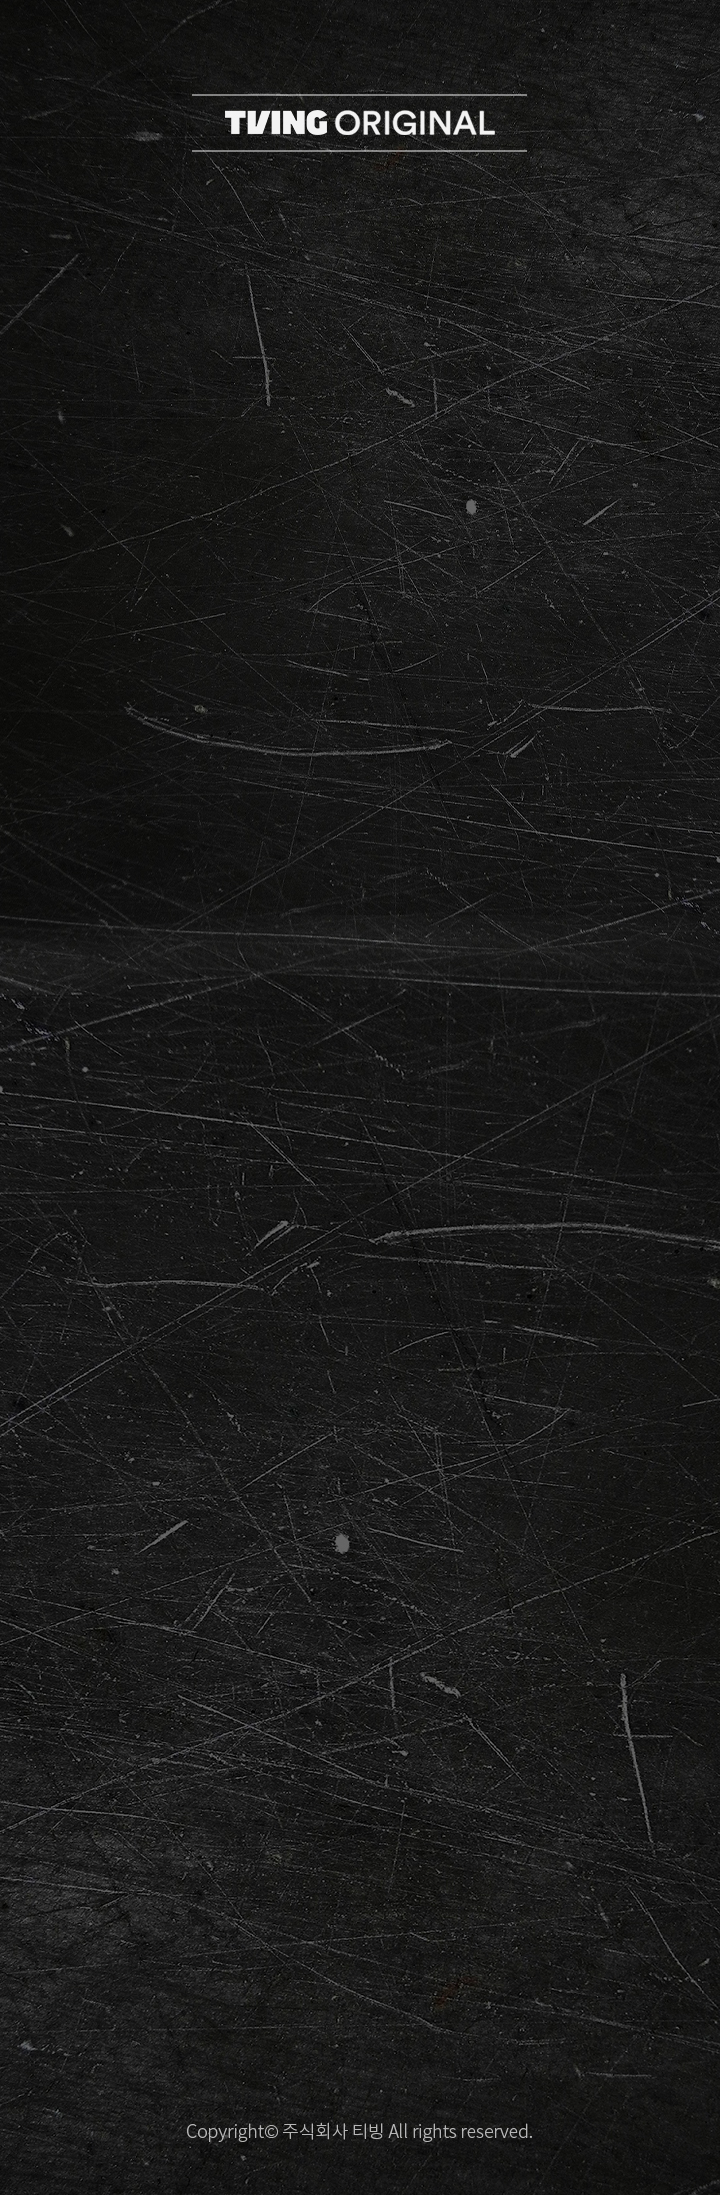
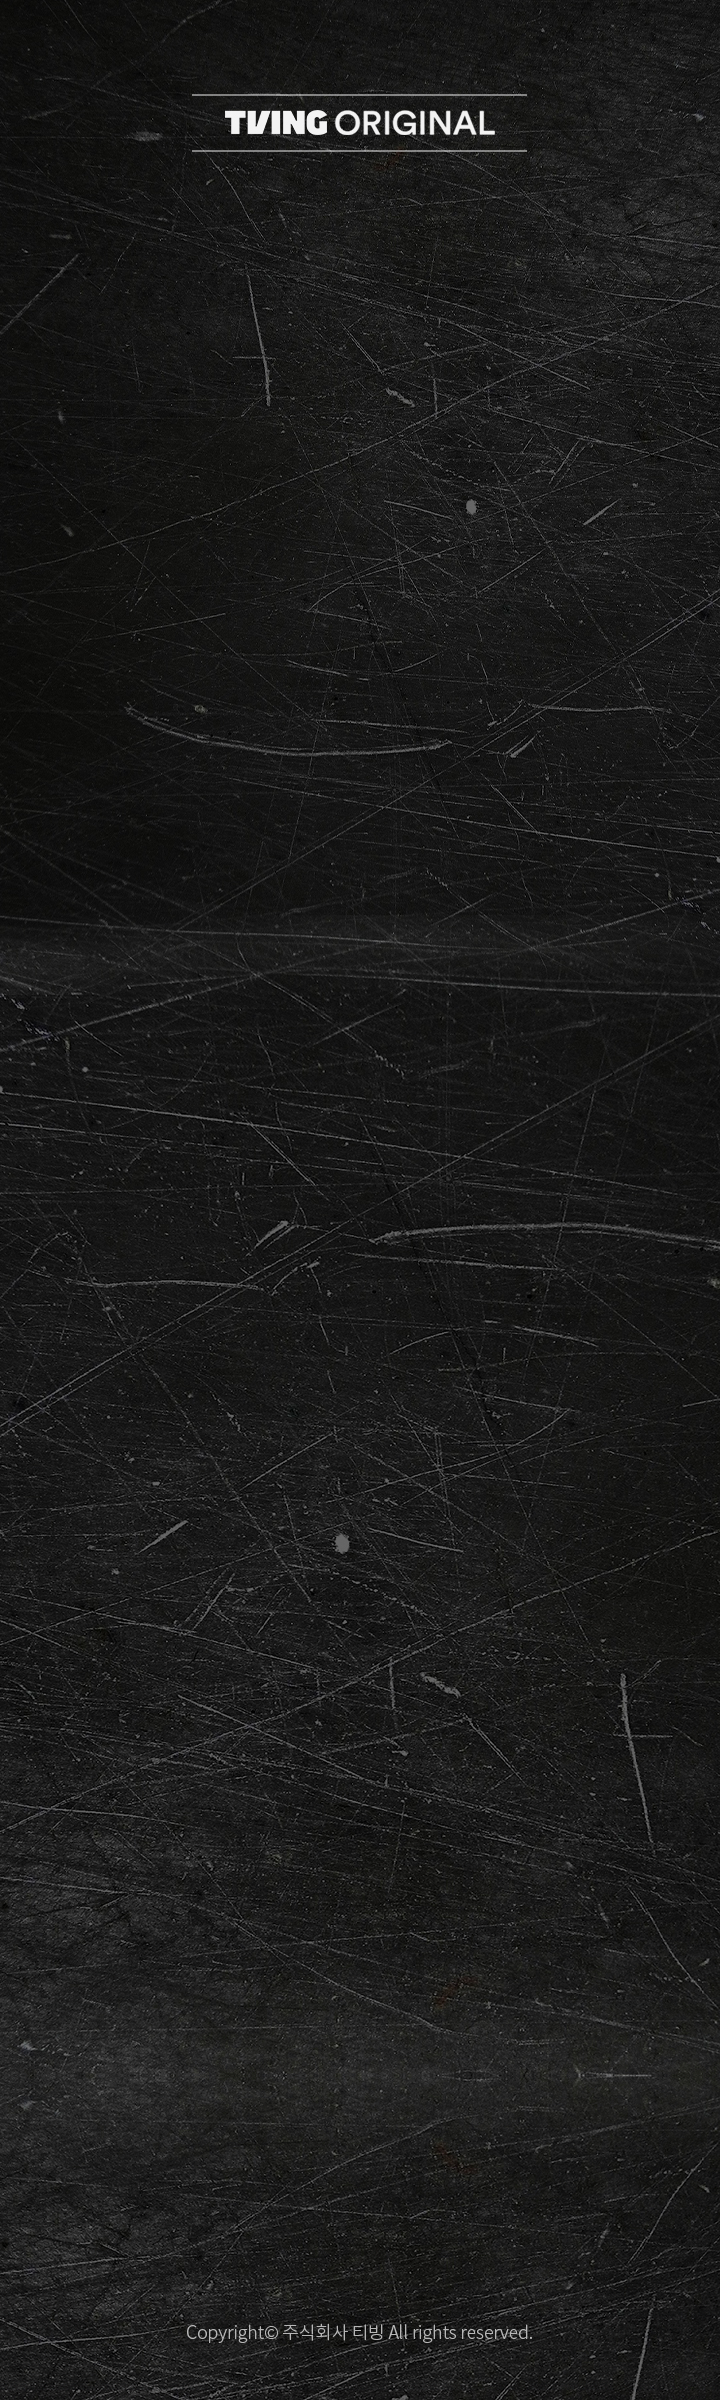
보물찾기 티저 수정

diff --git a/teaser/resources/css/style.css b/teaser/resources/css/style.css
@@ -51,10 +51,10 @@ button:focus{outline:dashed #666 thin;}
 
 
 /* cont */
-.hunt_bg{position: relative; background: url('../images/bg.jpg')no-repeat ; width: 720px; height: 2195px; overflow: hidden;}
+.hunt_bg{position: relative; background: url('../images/bg.jpg')no-repeat ; width: 720px; height: 2400px; overflow: hidden;}
 .hunt_bg .title{position: absolute; top: 207px; left: 27px; width: 670px; height: 283px;}
 .hunt_bg .text02{position: absolute; top: 550px; left: 16.5px; width: 687px; height: 214px;}
 .hunt_bg .text03{position: absolute; top: 750px; left: 65.5px; width: 589px; height: 82px;}
-.hunt_bg .cont_box{position: absolute; top: 935px; left: 45px; width: 624px; height: 675px; border: 3px groove #969696; box-shadow: 0 20px 30px #000;}
-.hunt_bg .hunt_yt{padding-top: 1714px; padding-left: 40px; width: 640px; height: 360px;}
+.hunt_bg .cont_box{position: absolute; top: 935px; left: 45px; width: 624px; height: 855px; border: 3px groove #969696; box-shadow: 0 20px 30px #000;}
+.hunt_bg .hunt_yt{padding-top: 1915px; padding-left: 40px; width: 640px; height: 360px;}
 .hunt_bg .hunt_yt iframe{width: 100%; height: 100%;}

diff --git a/teaser/index.html b/teaser/index.html
@@ -16,15 +16,6 @@
 	<script src="./resources/js/aos.js"></script>
 	<link href="./resources/css/aos.css" rel="stylesheet">
 	<link rel="stylesheet" href="./resources/css/style.css">
-	<!-- Global site tag (gtag.js) - Google Analytics -->
-	<script async src="https://www.googletagmanager.com/gtag/js?id=G-C6CM5322BH"></script>
-	<script>
-	window.dataLayer = window.dataLayer || [];
-	function gtag(){dataLayer.push(arguments);}
-	gtag('js', new Date());
-
-	gtag('config', 'G-C6CM5322BH');
-	</script>
 </head>
 <body data-aos-easing="ease-out-back" data-aos-duration="1000" data-aos-delay="0" cz-shortcut-listen="true">
 	<div class="hunt_bg">
